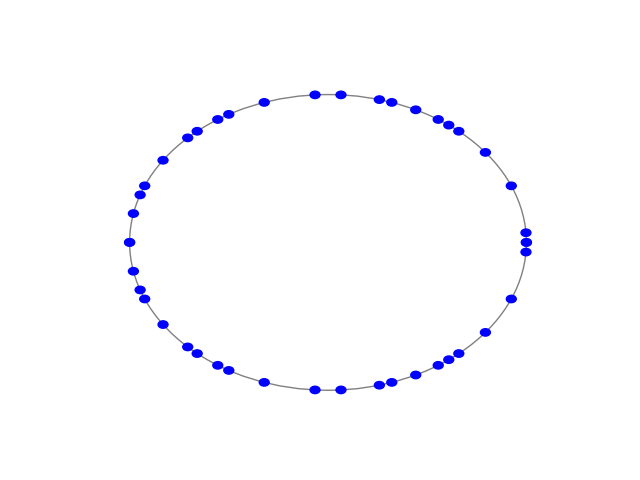
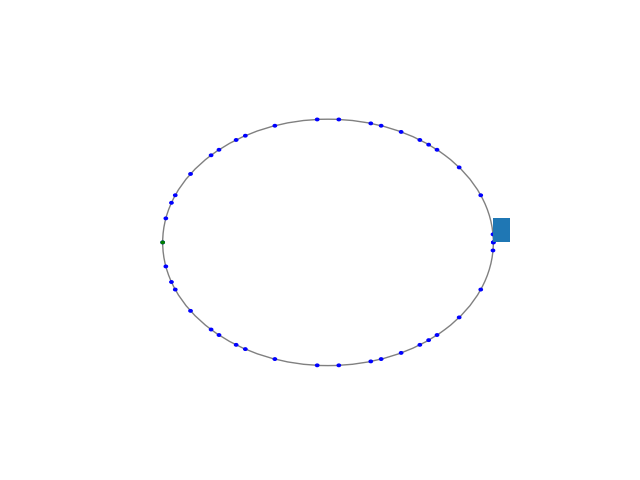
plot window

diff --git a/simulation_window.py b/simulation_window.py
@@ -1,6 +1,25 @@
 import matplotlib.pyplot as plt
 
 class Window:
-    def __init__(self, stop_coords):
+    def __init__(self, stops):
         self.fig, self.ax = plt.subplots(1,1)
-        self.ax.plot(stop_coords, '.-')
+        self.window_style(stops)
+        self.buses = []
+    
+    def window_style(self):
+        self.ax.set_xlim(0,30)
+        self.ax.set_ylim(0,30)
+        self.ax.axis('off')
+    
+    def init_window(self, stops):
+        for (x, y) in stops:
+            stop = plt.Circle((x, y), 0.1, color='k', fill=True)
+            self.ax.add_patch(stop)
+    
+    def add_bus(self, start_pos):
+        self.buses.append(plt.Rectangle(start_pos, 0.1, 0.5, color='b'))
+        self.ax.add_patch(self.buses[-1])
+    
+    def move_bus(self, n_bus, beta, new_xy):
+        self.buses[n_bus].set_angle(beta)
+        self.buses[n_bus].set_xy(new_xy)
